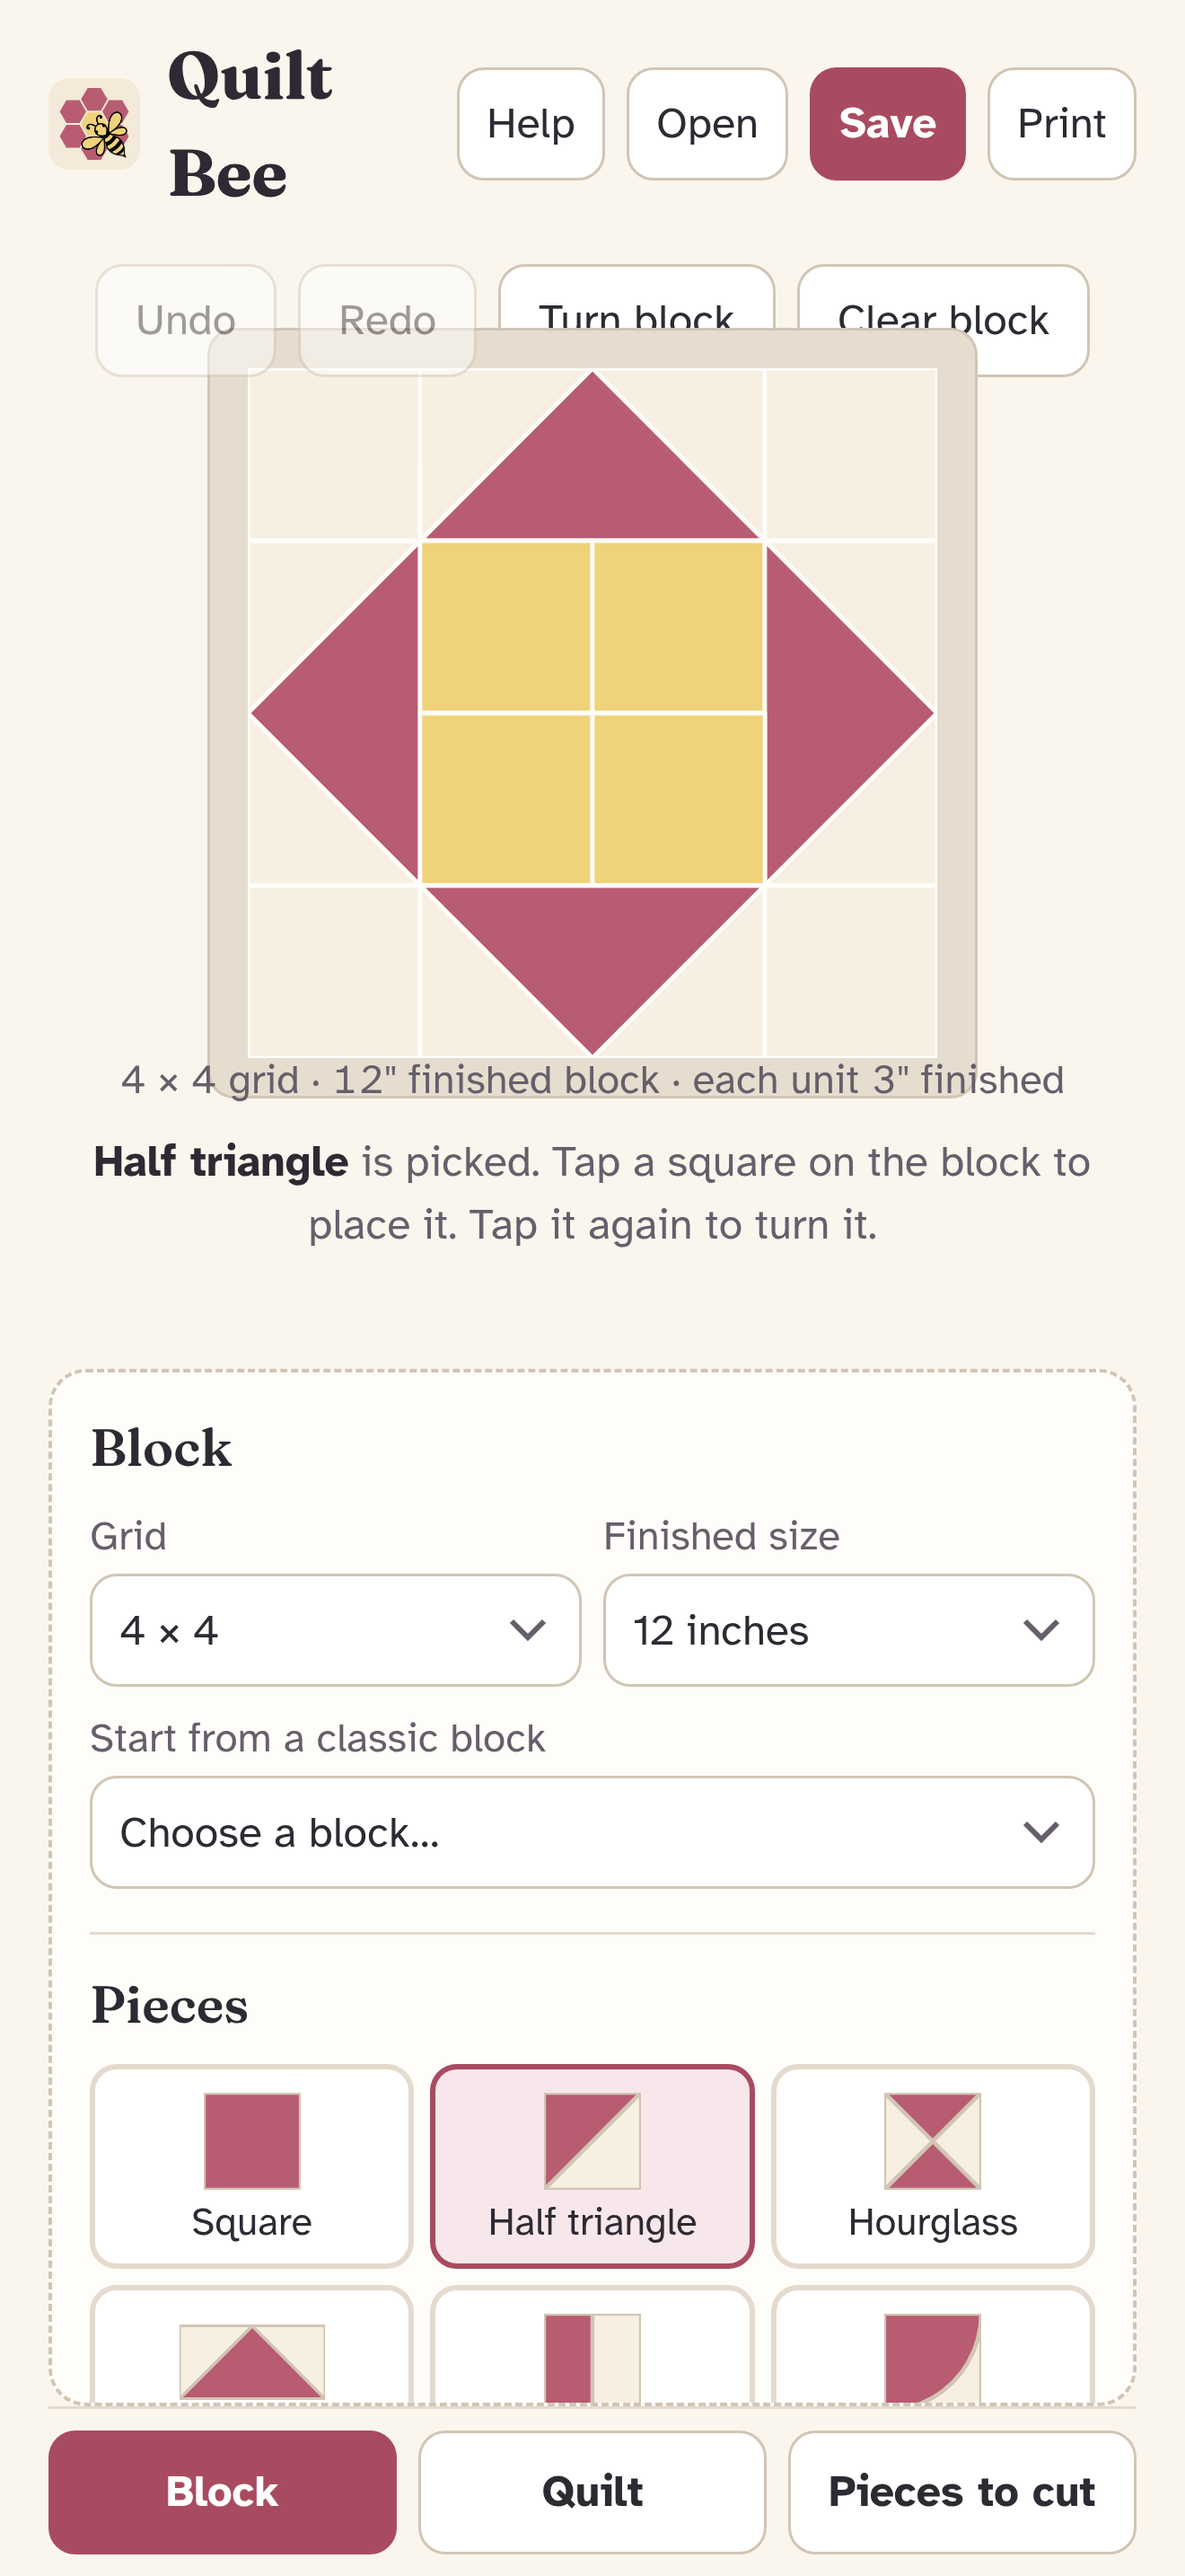
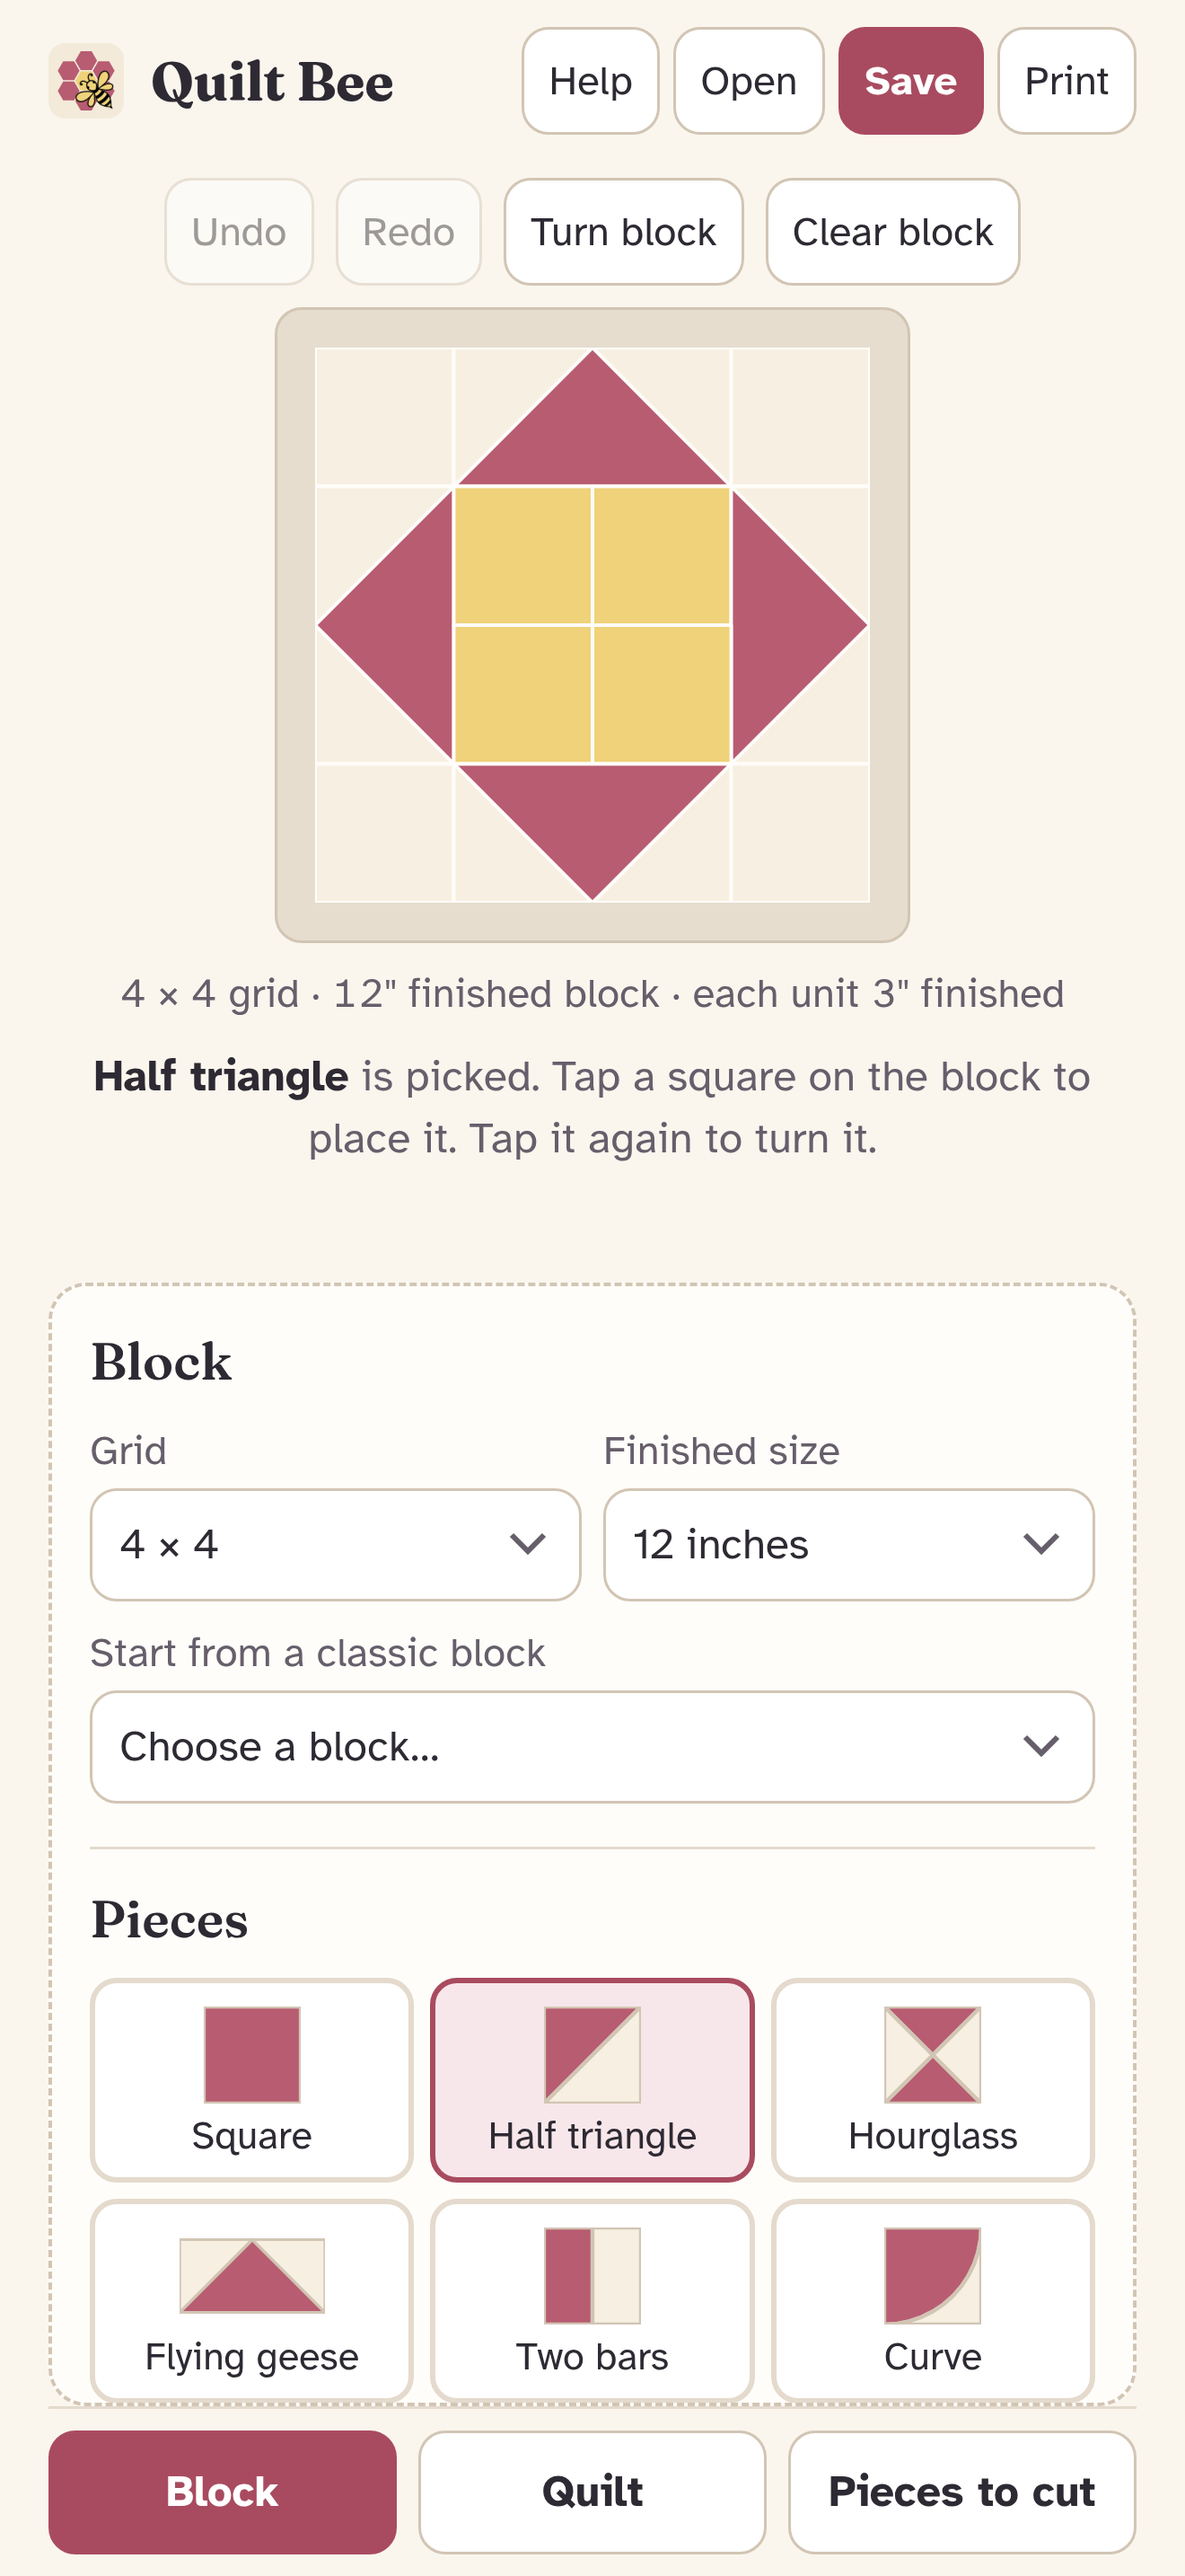
Canvas refits when its pane changes size; compact phone toolbar; 6.5-inch store screenshots

diff --git a/docs/index.html b/docs/index.html
@@ -92,6 +92,8 @@ h1{font-family:"Fraunces",Georgia,serif;font-size:1.55rem;margin:0;font-weight:7
   .brand svg{width:28px;height:28px}
   .actions{gap:5px}
   .actions button{padding:6px 9px;font-size:.95rem;min-height:40px}
+  .toolbar{gap:6px}
+  .toolbar button{padding:6px 9px;font-size:.95rem;min-height:40px}
 }
 h2{font-family:"Fraunces",Georgia,serif;font-size:1.2rem;font-weight:600;margin:0 0 8px;color:var(--ink)}
 .section{margin-top:16px;padding-top:12px;border-top:1px solid var(--rule)}
@@ -884,6 +886,7 @@ let sheetFresh=false;
 $('printgo').onclick=()=>{ const g=gate(); if (g.locked){ $('printpop').querySelector('.tip').insertAdjacentHTML('beforebegin', lockHtml(g)); $('printgo').disabled=true; return; } buildPrintSheet(); sheetFresh=true; closePops(); setTimeout(()=>window.print(),50); setTimeout(()=>sheetFresh=false,2000); };
 window.addEventListener('beforeprint', ()=>{ if (!sheetFresh) buildPrintSheet(); });
 let rsT; window.addEventListener('resize', ()=>{ clearTimeout(rsT); rsT=setTimeout(()=>{ fitCanvases(); if (view==='quilt') renderQuilt(); },150); });
+if (window.ResizeObserver){ const ro=new ResizeObserver(()=>fitCanvases()); document.querySelectorAll('.canvaswrap').forEach(w=>ro.observe(w)); }
 const WOF=40;
 function orient(p){ // lay the piece across the 40" width whichever way uses less length
   const a={w:p.w,h:p.h}, b={w:p.h,h:p.w};
